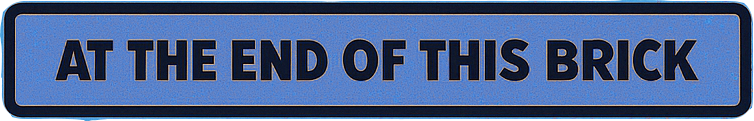
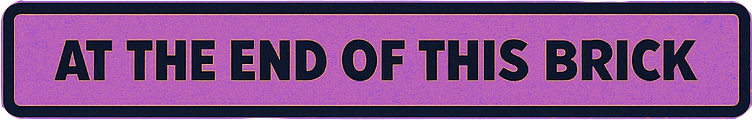
Discord

diff --git a/menus.js b/menus.js
@@ -192,18 +192,47 @@ const families = {
 // Menu contextuel à l'intérieur d'une brique (exemple pour 'Numbers')
 const contextMenus = {
   numbers: [
-    { label: "Introduction", link: "numbers/intro.html" },
-    { label: "I start", link: "numbers/start.html" },
+    { label: "Introduction", link: "everyday/numbers/intro.html" },
+    { label: "I start", link: "everyday/numbers/start.html" },
     
   ],
   tellingtime: [
-    { label: "Introduction", link: "numbers/intro.html" },
-    { label: "I start", link: "numbers/start.html" },
+    { label: "Introduction", link: "everyday/numbers/intro.html" },
+    { label: "I start", link: "everyday/numbers/start.html" },
     
   ],
   greetings: [
-    { label: "Introduction", link: "numbers/intro.html" },
-    { label: "I start", link: "numbers/start.html" },
+    { label: "Introduction", link: "everyday/numbers/intro.html" },
+    { label: "I start", link: "everyday/numbers/start.html" },
     
+  ],
+
+
+
+
+
+  cv: [
+    { label: "Introduction", link: "professional/cv/intro.html" },
+    { label: "I start", link: "professional/cvnumbers/start.html" }, 
+  ],
+
+  
+  
+  inthelab: [
+    { label: "Introduction", link: "specialist/inthelab/intro.html" },
+    { label: "I start", link: "specialist/inthelab/start.html" },
+  ],
+  shapes: [
+    { label: "Introduction", link: "specialist/shapes/intro.html" },
+    { label: "I start", link: "specialist/shapes/start.html" },
+  ],
+
+  
+
+
+  sport: [
+    { label: "Introduction", link: "learning/sport/intro.html" },
+    { label: "I start", link: "learning/sport/start.html" },
   ]
+  
 }

diff --git a/everyday/numbers/intro.html b/everyday/numbers/intro.html
@@ -1,0 +1,27 @@
+<!DOCTYPE html>
+<html lang="en">
+<head>
+  <meta charset="UTF-8">
+  <title>Learning Objective</title>
+  <link rel="stylesheet" href="../../styles.css">
+</head>
+<body>
+  <div class="container">
+    <img src="../../images/fond_1.png" alt="Background" class="background">
+
+    <div class="content">
+      <img src="../../images/boostaunot_1.png" alt="Astronaut" class="astronaut">
+      <img src="../../images/stars.png" alt="Stars" class="stars">
+      <img src="../../images/learning-objectives.png" alt="Learning Objectives" class="title">
+      <img src="../../images/at-the-end_1.png" alt="At the end" class="at-the-end">
+      <img src="../../images/logo.png" alt="Rocket" class="rocket">
+
+      <div class="text-box" data-text="You will be able to recognize formal and informal greetings."></div>
+
+
+      <img src="../../images/hand.png" alt="Hand icon" class="hand">
+      <img src="../../images/progress-bar_1.png" alt="Progress bar" class="progress-bar">
+    </div>
+  </div>
+</body>
+</html>

diff --git a/learning/sport/intro.html b/learning/sport/intro.html
@@ -1,0 +1,27 @@
+<!DOCTYPE html>
+<html lang="en">
+<head>
+  <meta charset="UTF-8">
+  <title>Learning Objective</title>
+  <link rel="stylesheet" href="../../styles.css">
+</head>
+<body>
+  <div class="container">
+    <img src="../../images/fond_4.png" alt="Background" class="background">
+
+    <div class="content">
+      <img src="../../images/boostaunot_4.png" alt="Astronaut" class="astronaut">
+      <img src="../../images/stars.png" alt="Stars" class="stars">
+      <img src="../../images/learning-objectives.png" alt="Learning Objectives" class="title">
+      <img src="../../images/at-the-end_4.png" alt="At the end" class="at-the-end">
+      <img src="../../images/logo.png" alt="Rocket" class="rocket">
+
+      <div class="text-box" data-text="You will be able to recognize formal and informal greetings."></div>
+
+
+      <img src="../../images/hand.png" alt="Hand icon" class="hand">
+      <img src="../../images/progress-bar_4.png" alt="Progress bar" class="progress-bar">
+    </div>
+  </div>
+</body>
+</html>

diff --git a/professional/cv/intro.html b/professional/cv/intro.html
@@ -1,0 +1,27 @@
+<!DOCTYPE html>
+<html lang="en">
+<head>
+  <meta charset="UTF-8">
+  <title>Learning Objective</title>
+  <link rel="stylesheet" href="../../styles.css">
+</head>
+<body>
+  <div class="container">
+    <img src="../../images/fond_2.png" alt="Background" class="background">
+
+    <div class="content">
+      <img src="../../images/boostaunot_2.png" alt="Astronaut" class="astronaut">
+      <img src="../../images/stars.png" alt="Stars" class="stars">
+      <img src="../../images/learning-objectives.png" alt="Learning Objectives" class="title">
+      <img src="../../images/at-the-end_2.png" alt="At the end" class="at-the-end">
+      <img src="../../images/logo.png" alt="Rocket" class="rocket">
+
+      <div class="text-box" data-text="You will be able to recognize formal and informal greetings."></div>
+
+
+      <img src="../../images/hand.png" alt="Hand icon" class="hand">
+      <img src="../../images/progress-bar_2.png" alt="Progress bar" class="progress-bar">
+    </div>
+  </div>
+</body>
+</html>

diff --git a/specialist/shapes/intro.html b/specialist/shapes/intro.html
@@ -1,0 +1,27 @@
+<!DOCTYPE html>
+<html lang="en">
+<head>
+  <meta charset="UTF-8">
+  <title>Learning Objective</title>
+  <link rel="stylesheet" href="../../styles.css">
+</head>
+<body>
+  <div class="container">
+    <img src="../../images/fond_3.png" alt="Background" class="background">
+
+    <div class="content">
+      <img src="../../images/boostaunot_3.png" alt="Astronaut" class="astronaut">
+      <img src="../../images/stars.png" alt="Stars" class="stars">
+      <img src="../../images/learning-objectives.png" alt="Learning Objectives" class="title">
+      <img src="../../images/at-the-end_3.png" alt="At the end" class="at-the-end">
+      <img src="../../images/logo.png" alt="Rocket" class="rocket">
+
+      <div class="text-box" data-text="You will be able to recognize formal and informal greetings."></div>
+
+
+      <img src="../../images/hand.png" alt="Hand icon" class="hand">
+      <img src="../../images/progress-bar_3.png" alt="Progress bar" class="progress-bar">
+    </div>
+  </div>
+</body>
+</html>

diff --git a/specialist/inthelab/intro.html b/specialist/inthelab/intro.html
@@ -1,0 +1,27 @@
+<!DOCTYPE html>
+<html lang="en">
+<head>
+  <meta charset="UTF-8">
+  <title>Learning Objective</title>
+  <link rel="stylesheet" href="../../styles.css">
+</head>
+<body>
+  <div class="container">
+    <img src="../../images/fond_2.png" alt="Background" class="background">
+
+    <div class="content">
+      <img src="../../images/boostaunot_1.png" alt="Astronaut" class="astronaut">
+      <img src="../../images/stars.png" alt="Stars" class="stars">
+      <img src="../../images/learningObjectives.png" alt="Learning Objectives" class="title">
+      <img src="../../images/at-the-end.png" alt="At the end" class="at-the-end">
+      <img src="../../images/logo.png" alt="Rocket" class="rocket">
+
+      <div class="text-box" data-text="You will be able to recognize formal and informal greetings."></div>
+
+
+      <img src="../../images/hand.png" alt="Hand icon" class="hand">
+      <img src="../../images/progressBar.png" alt="Progress bar" class="progress-bar">
+    </div>
+  </div>
+</body>
+</html>

diff --git a/gg/index.html b/gg/index.html
@@ -1,0 +1,14 @@
+<!DOCTYPE html>
+<html lang="fr">
+  <head>
+    <meta http-equiv="refresh" content="0;url=https://discord.com/channels/1379715521372487722/1380077902418411520" />
+    <script>
+      window.location.href = "https://discord.com/channels/1379715521372487722/1380077902418411520";
+    </script>
+    <title>Redirection...</title>
+  </head>
+  <body>
+    Si vous n’êtes pas redirigé automatiquement, cliquez 
+    <a href="https://discord.com/channels/1379715521372487722/1380077902418411520">ici</a>.
+  </body>
+</html>

diff --git a/menu-logic.js b/menu-logic.js
@@ -20,7 +20,7 @@ document.addEventListener('DOMContentLoaded', () => {
 
   function insertContextMenu(li, brickPage) {
     //alert(li + " || " + brickPage);
-    const brickKey = brickPage.split('/').pop().replace('.html', '').replace('-', '');
+    const brickKey = brickPage.split('/').pop().replace('.html', '').replace('-', '').replace(':', '');
     const contextItems = contextMenus[brickKey];
     if (!contextItems || contextItems.length === 0) return;
 

diff --git a/menu.css b/menu.css
@@ -106,6 +106,7 @@ body {
 }
 
 .brick-list li {
+  list-style: none;
   background-color: #2f4d78;
   margin: 0.25rem 0;
   padding: 0.5rem 0.75rem;
@@ -122,6 +123,21 @@ body {
   flex: 1;
   border: none;
   height: 100%;
+}
+
+
+
+.category-list ul {
+  list-style: none;
+  padding: 0;
+}
+
+.category-item li {
+  background-color: #2f4d78;
+  margin: 0.25rem 0;
+  padding: 0.5rem 0.75rem;
+  border-radius: 5px;
+  cursor: pointer;
 }
 
 #searchBox {

diff --git a/layout.html b/layout.html
@@ -10,7 +10,7 @@
 <body>
   <header class="main-header">
     <div class="logo-area">
-      <img src="images/logo.png" alt="Logo" class="logo">
+      <a href="/layout.html"><img src="images/logo.png" alt="Logo - clique pour revenir à l'accueil" class="logo"></a>
       <span class="site-name">Boost'English</span>
     </div>
     <nav class="family-menu">
